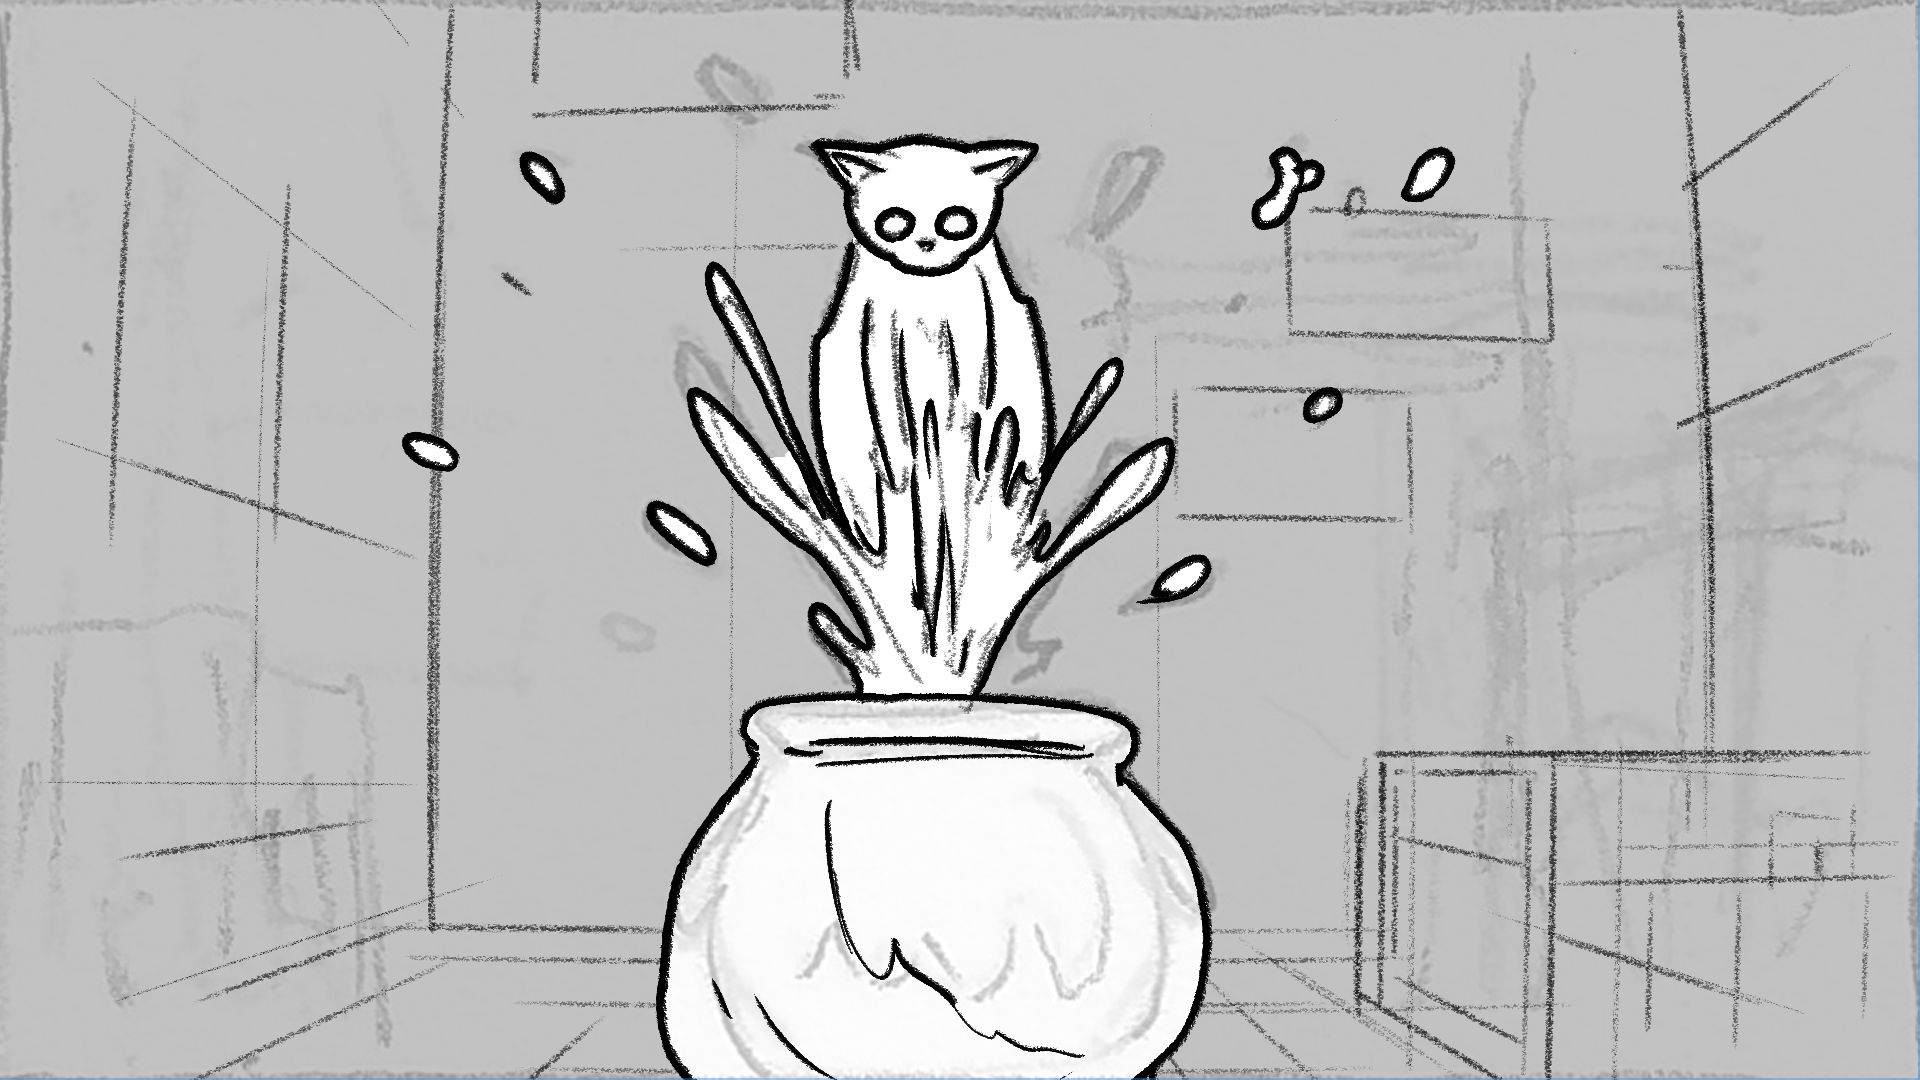
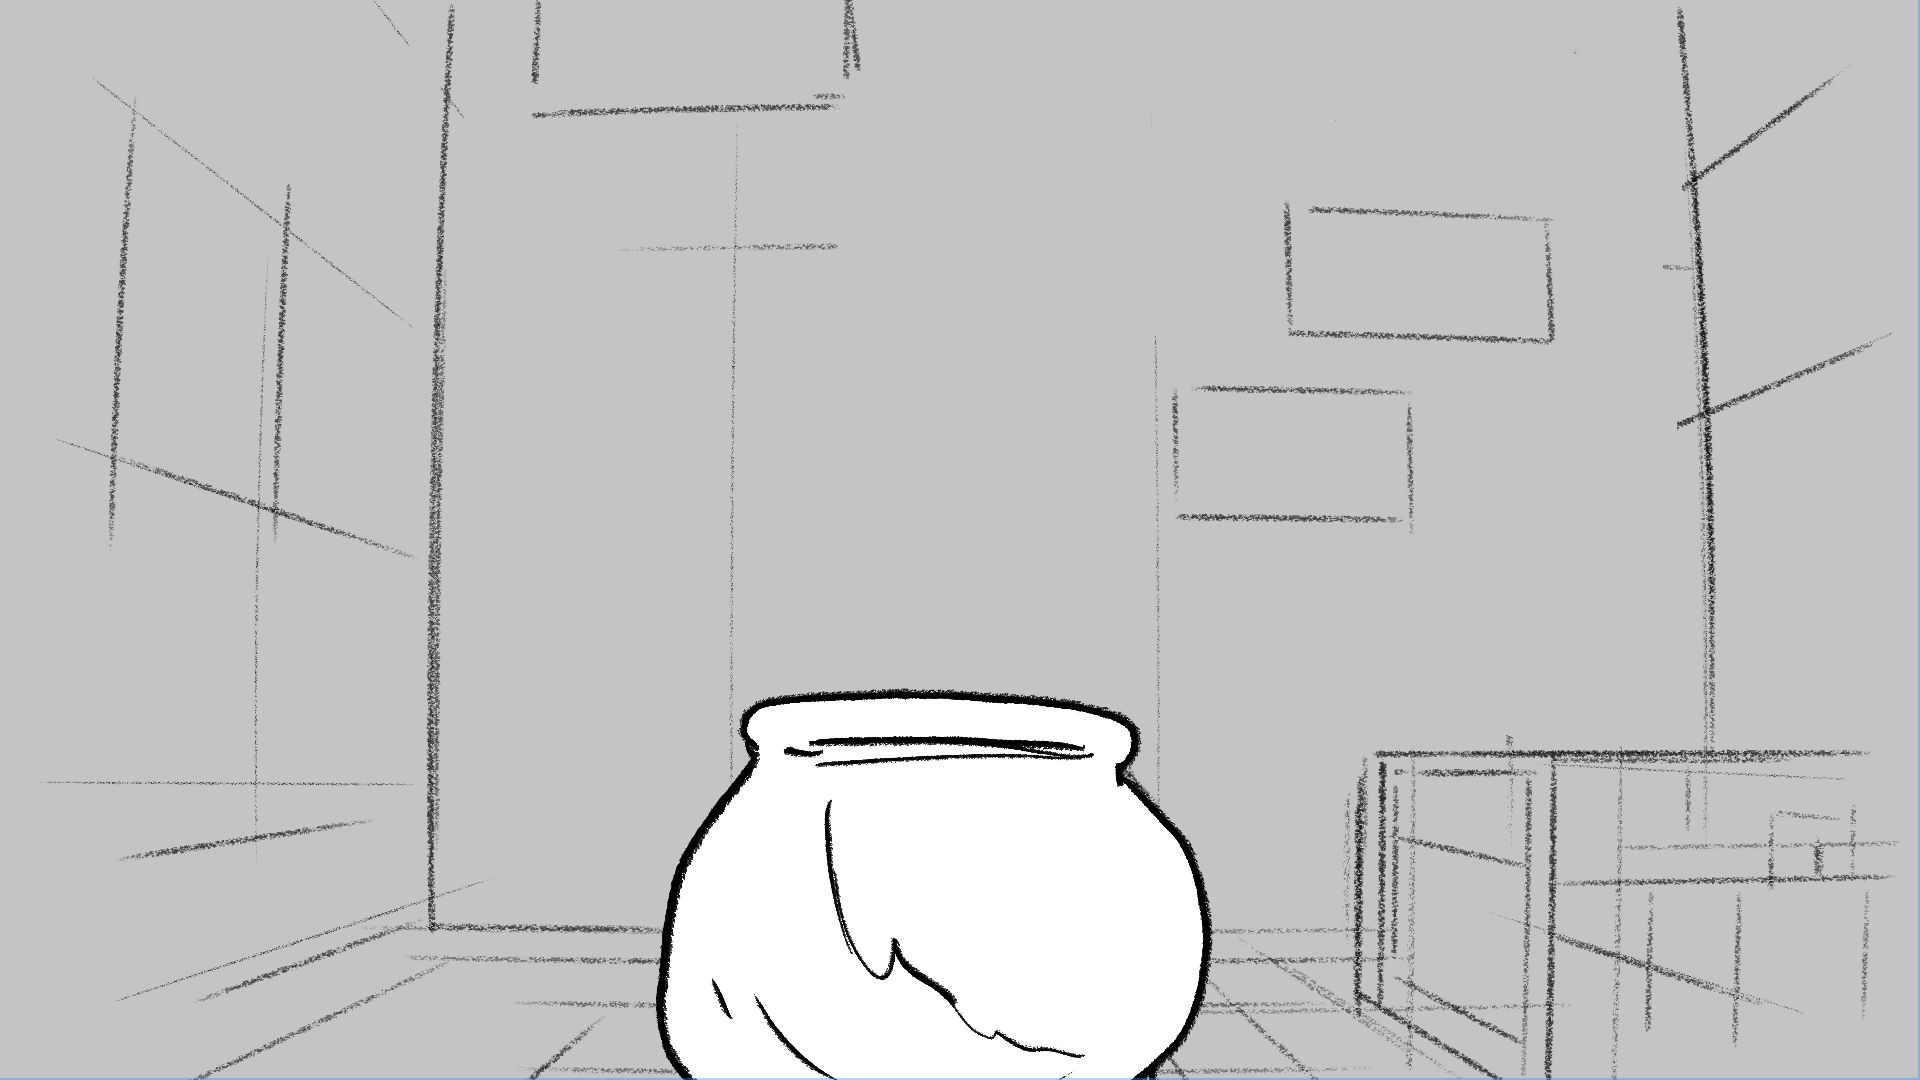
updated new storyboard

diff --git a/projects.js b/projects.js
@@ -367,7 +367,15 @@ const projectData = {
 "images/ff/ff-0009.jpg",
 "images/ff/ff-0010.jpg",
 "images/ff/ff-0011.jpg",
-"images/ff/ff-0012.jpg"
+"images/ff/ff-0012.jpg", 
+"images/ff/ff-0013.jpg", 
+"images/ff/ff-0014.jpg", 
+"images/ff/ff-0015.jpg", 
+"images/ff/ff-0016.jpg", 
+"images/ff/ff-0017.jpg", 
+"images/ff/ff-0018.jpg", 
+"images/ff/ff-0019.jpg", 
+"images/ff/ff-0020.jpg"
 					],
 					"additionalItems": [
 						{ "title": "Concept Art", "image": "images/t1.jpg" },
